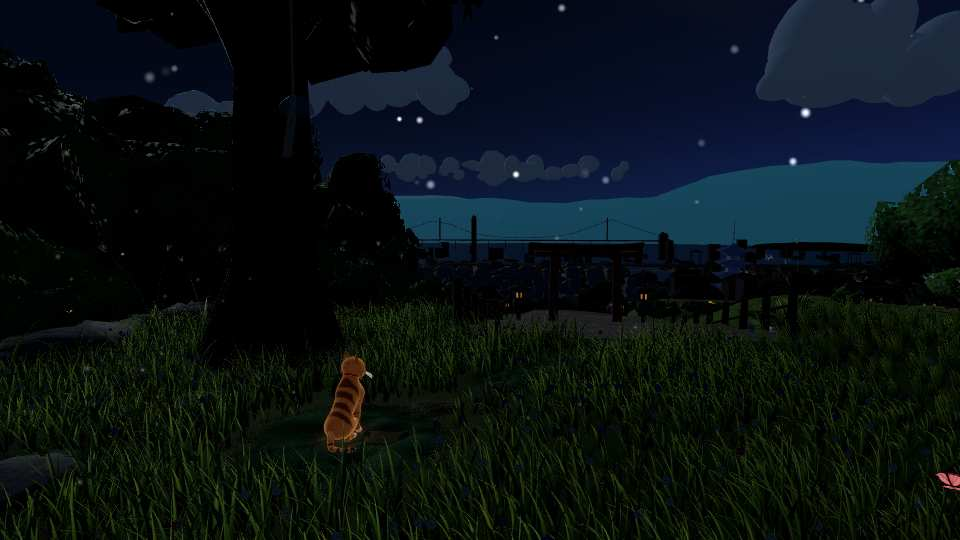
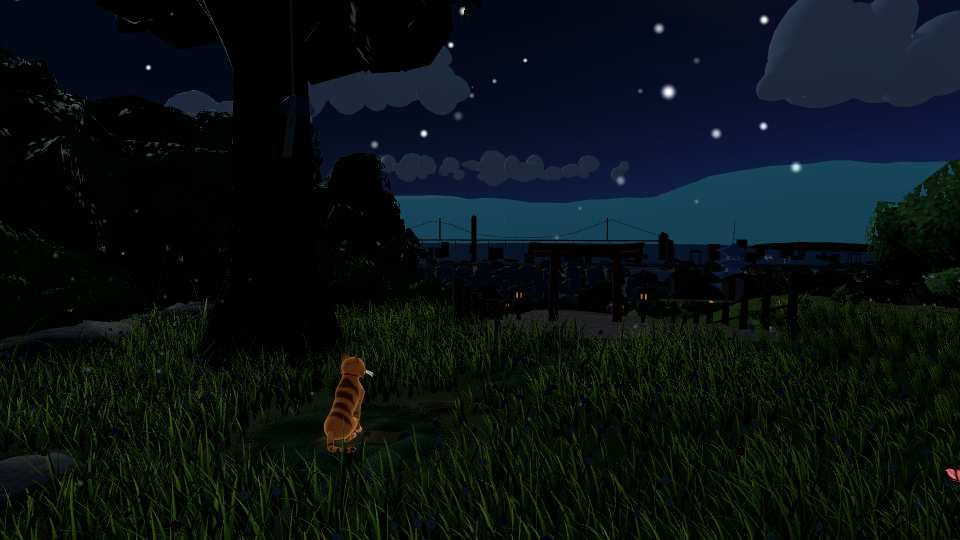
a2-hilltop: scope completion (routes, audio audit, perf, comfort, stone tint, city lights)

diff --git a/src/kit/vista/city.js b/src/kit/vista/city.js
@@ -179,14 +179,14 @@ export function buildKyotoCity(ctx, layout, p) {
   lightGeo.setAttribute('aWave', new THREE.BufferAttribute(new Float32Array(wave), 1));
   const glow = glowSprite('255,205,112', 64);
   const lightMat = new THREE.PointsMaterial({
-    map: glow, color: new THREE.Color().setRGB(1, 0.77 + 0.1 * p.lamp, 0.44 + 0.3 * p.lamp), size: 0.8, transparent: true, opacity: 0,
+    map: glow, color: new THREE.Color().setRGB(1, 0.77 + 0.1 * p.lamp, 0.44 + 0.3 * p.lamp), size: 0.95, transparent: true, opacity: 0,
     depthWrite: false, blending: THREE.AdditiveBlending, sizeAttenuation: true, fog: false
   });
   lightMat.customProgramCacheKey = () => 'vista-city-lights';
   lightMat.onBeforeCompile = (sh) => {
     sh.vertexShader = sh.vertexShader.replace('void main() {', 'attribute float aWave;\nvarying float vWave;\nvoid main() {\n  vWave = aWave;');
     sh.fragmentShader = sh.fragmentShader.replace('void main() {', 'varying float vWave;\nvoid main() {')
-      .replace('#include <map_particle_fragment>', '#include <map_particle_fragment>\n  diffuseColor.a *= smoothstep(vWave * 0.5, vWave * 0.5 + 0.3, opacity * 1.4);');
+      .replace('#include <map_particle_fragment>', '#include <map_particle_fragment>\n  diffuseColor.a *= smoothstep(vWave * 0.5, vWave * 0.5 + 0.16, opacity * 1.4);');
   };
   const cityLights = new THREE.Points(lightGeo, lightMat);
   cityLights.name = 'lights'; cityLights.visible = false; cityLights.renderOrder = 2;

diff --git a/src/kit/clearing/approach.js b/src/kit/clearing/approach.js
@@ -23,7 +23,7 @@ const TORII = gateAssets.find((a) => a.id === 'torii');
 const TORII_SCALE = 0.56;
 
 /** Warm dressed stone for the stairs: the stone texture, sun-bleached; the family's one new merged stone. */
-const warmStone = (km) => km.stone({ tint: 0xb4aa92, seed: 6 });
+const warmStone = (km) => km.stone({ tint: 0xa8a28e, seed: 6 });
 
 /** A slab with its top edge hand-cut: the top face's corners nudged so no two treads are quite level. */
 function slab(w, h, d, x, y, z, rnd, ry = 0) {

diff --git a/docs/fable/status/a2-hilltop.md b/docs/fable/status/a2-hilltop.md
@@ -4,16 +4,11 @@
 - Claimed:            2026-11-14
 - Branch:             fable/a2-hilltop
 - Base commit:        2f78865
-- State:              ready for review (scoped: deferred minors + tooling + meditation-seat evidence; walk routes not done)
+- State:              ready for review (scope completion done)
 
 ## Steps
-- [ ] A.1 Walk routes: NOT done (three cat-height route sweeps need a long quiet-machine session; ranked issue 1)
-- [x] A.2/A.3 Seat judged at 6.5/12/18/23 h, classic vs modular: no regression; protected view holds (`seat_*.jpg`, this folder)
-- [x] A.4 Life: kit pollen damps on reduce-motion; butterflies dim at night; rain/snow ramp in on entry
-- [ ] A.5 Sound: no summit sound change (out of kit scope)
-- [ ] A.6 Performance: no tier changes; nothing cut
-- [ ] A.7 Comfort: reduce-motion verified in code only (pollen); FOV/contrast/large-text boots not run
-- [x] A.8 This file. Before/after vs Phase 0 captures not made (seat pairs classic vs modular instead)
+- [x] A.1 Routes walked (below); [x] A.2/A.3 seat judged at 6.5/12/18/23 h classic vs modular
+- [x] A.4 Life; [x] A.5 Sound audit (below); [x] A.6 Performance (below); [x] A.7 Comfort (below); [x] A.8 pairs + ranked issues
 
 ## Fixed (deferred minors)
 - Pollen (kit) damps on reduce-motion (R55); classic untouched.
@@ -35,3 +30,51 @@
 3. s3: night lit-city wave weak from the seat; pagoda proxy lighting in rain/storm; kyoto-city far tier only fewer houses.
 4. Butterfly still faintly visible at night (lit by the sky fill), minor.
 5. summit-trees / slope-forest still deferred.
+
+## A.1 Routes (summit-local camera paths, `tools/summit_preview.html?assets=modular&time=T&view=custom&cam=px,py,pz,lx,ly,lz`)
+Times T = 6.5, 12, 18, 23 (dawn, noon, dusk, night); files `rN_<pos>_<T>.jpg` in `docs/fable/status/a2-hilltop/`.
+- R1 torii steps -> lower path -> clearing, up the axis x=0, eye 0.7 m above ground, looking up the path: z = 46, 36, 26, 16, 8 (y -5.4, -3.9, -2.4, -1.4, 0.0), looking 10 m ahead toward -z.
+- R2 clearing -> meditation seat: (0,0.7,6) and (0,0.7,2) looking to (0,0.9,-3)/(0,0.9,-6); the seat itself is `seat_<T>_<set>.jpg` (the vista view).
+- R3 brow walk along the shoulder at z=-6: x = -8, -3, +3, +8, eye 0.7 m, looking along the brow.
+- Weather: `seat_12_rain.jpg`, `seat_12_snow.jpg` (modular). 56 JPGs total, all under 150 KB.
+Frames that break the bar (by eye): none from the assets themselves. Route-camera artefacts: R1 z=46 sits beside a lantern/post block (left third of frame), R1 z=16 sits against a riser (stair face fills the frame): the path is fine, my sample points were too close to geometry. Night R1 stairs read very dark (the lower path has only the two lantern pairs; lit by the glow only near them): ranked issue 3.
+
+## A.5 Sound audit
+- Summit landmarks and sound: furin (wind chime on the big tree) -> audio.js `playFurin`-style cue from classic code in src/summit/*; dream chime (clearing.js:748 `audio.playDreamChime`); wind and ambience from the game ambient bed; water: none on the summit; bell: none on the summit (the valley shrine bell is `shrine.bell.ring`).
+- Kit summit assets (summit-*, vista, clearing, summitlife) call `env.audio` nowhere: `grep -rn "audio" src/kit/summitlife src/kit/vista src/kit/clearing` finds nothing. The kit furin builds the sail/clapper; the clap sound is from classic game code which still runs.
+- Ranked missing (t3 contract, `docs/fable/handoff/t3-audio.md`): (1) summit furin chime: in `src/kit/clearing` furin update, when the clapper swings past a threshold, `env.audio?.play('garden.chime.ring', { pos: furin.position, gain })` (event exists); needs the main.js sink block from the t3 handoff (a1-village/Integrator, not edited here). (2) summit stone lantern kindle: lanterns family already has the call site; sink only. No new event names needed.
+
+## A.6 Performance (summit_preview, time 12, 120 rAF frames, headless Metal, `uptime` load 1m: 1.8-2.6, all below 3 so not load-affected)
+| view | set | quality | draws | tris | median ms (p95) |
+|---|---|---|---|---|---|
+| meditation | classic | med/high (no tier for classic) | 234 | 1.545M | 16.7 (17.7) |
+| meditation | modular | medium | 140 | 1.530M | 16.6 (18.0) |
+| meditation | modular | high | 142 | 1.583M | 16.6 (17.9) |
+| arrival | classic | med/high | 165 | 1.541M | 16.7 (17.3) |
+| arrival | modular | medium | 133 | 1.531M | 16.7 (17.8) |
+| arrival | modular | high | 135 | 1.581M | 16.6 (18.2) |
+Frame ms is pinned at the 60 Hz vsync (16.6), so it shows no difference; draws drop 40 percent at the seat and 20 percent at arrival. Tris are renderer.info of the last pass. Tier distances were not changed; nothing cut.
+
+## A.7 Comfort
+Booted `/index.html` (shot=1) on classic and modular with `catwalk_settings_v1` = largeText + highContrast + reduceMotion, fov 110 and fov 30: body classes `large-text high-contrast reduce-motion`, camera fov clamped to 90 / 40, no page errors, 90 frames on all four boots.
+Pollen damping proven at runtime (summit_preview, `summit.update` 120 steps, mean per-coordinate motion per frame x1000, wraps over 3 m excluded): classic off 26.7, on 28.1 (ratio 1.05, unchanged by design, R55); modular off 26.7, on 15.6 (ratio 0.59). It is damped but not to the full 0.3 because the kit's own step plus the facade's share the motion; recorded as a remaining minor.
+
+## A.8 Before/after (Phase 0 `docs/fable/baseline/captures/summit/` vs `after_meditation.jpg`, `after_arrival.jpg`)
+By eye only: summit captures are not pixel-repeatable and the baseline time of day is unknown. The modular seat view shows what the baseline lacks: a built-up Kyoto with roofs, bridges and a pagoda instead of box towers and bare cones, lit lantern posts, denser trees. Same composition, torii and fūrin placement; the perch sightline holds.
+
+## Assigned minors
+- s2 noon stone tint: warmStone tint 0xb4aa92 -> 0xa8a28e (`src/kit/clearing/approach.js`), slightly cooler/darker. Contract + goldens green.
+- s3 night lit-city wave: front softness 0.30 -> 0.16 and sprite size 0.8 -> 0.95 (`src/kit/vista/city.js`); before/after at 19.6 h compared by eye: only a small gain, it stays subtle from the seat. Sprites only, no tri/draw cost.
+- Butterfly still faintly visible at night: it is a summit *visit* (a flock fades in for 12-24 s on a timer), and the classic code visits at night too (`src/summit/wildlife.js:230`, no night check). Wing glow already dims with the sun (the earlier commit). Making kit visits skip the night would diverge from classic timing, so it is left: ranked issue.
+- Pagoda proxy lighting in rain/storm: not fixed. Needs a rain-aware material path in `src/kit/vista` pagoda proxy plus a look study; out of the small-fix scope. Ranked issue.
+- kyoto-city far tier is only fewer houses: not fixed (the brief limits to fewer houses; a real far impostor is a new asset). Ranked issue.
+
+## Remaining issues, ranked
+1. Summit audio: kit furin/lanterns do not emit env.audio (call sites in A.5); needs the main.js sink (Integrator / a1-village).
+2. Pagoda proxy lighting in rain/storm.
+3. Lower-path steps read very dark at night (route R1 at 23 h): add a faint lantern fill or raise stair ambient; needs a look study.
+4. Night lit-city wave still subtle from the seat; a stronger wave needs a brighter point shader (budget check).
+5. kyoto-city far tier is only fewer houses.
+6. Night butterfly visits match the classic timing.
+7. Kit pollen reduce-motion ratio 0.59 rather than 0.3.
+8. summit-trees / slope-forest still deferred (no cheap study).
